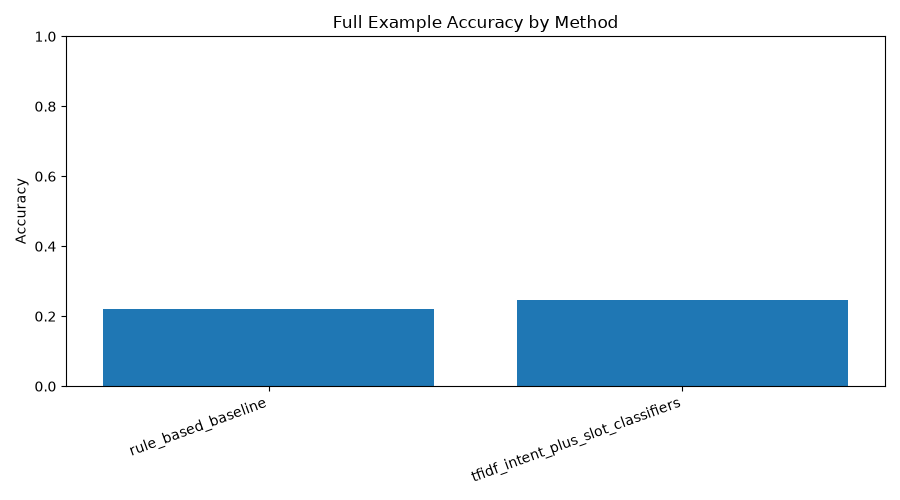
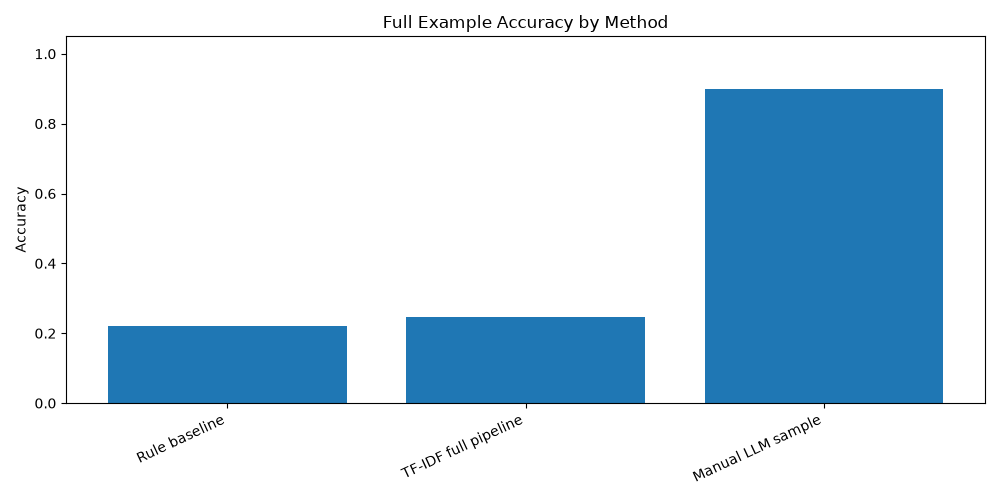
Updated visualizations

diff --git a/src/plot_results.py b/src/plot_results.py
@@ -18,24 +18,60 @@ def load_json(path):
         return json.load(file)
 
 
-def plot_model_comparison(rows):
-    # compare only full-schema methods here
-    full_schema_rows = [
+def clean_method_name(method):
+    names = {
+        "rule_based_baseline": "Rule baseline",
+        "tfidf_logistic_regression": "TF-IDF intent",
+        "fine_tuned_distilbert": "Fine-tuned DistilBERT",
+        "one_classifier_per_slot": "Slot classifiers",
+        "tfidf_intent_plus_slot_classifiers": "TF-IDF full pipeline",
+        "manual_off_the_shelf_llm": "Manual LLM sample",
+    }
+
+    return names.get(method, method)
+
+
+def plot_intent_accuracy(rows):
+    intent_rows = [
         row for row in rows
-        if row["task"] == "full_schema_extraction"
+        if row["intent_accuracy"] != ""
     ]
 
-    methods = [row["method"] for row in full_schema_rows]
-    full_scores = [row["full_example_accuracy"] for row in full_schema_rows]
-    slot_scores = [row["slot_accuracy"] for row in full_schema_rows]
-    missing_scores = [row["missing_fields_accuracy"] for row in full_schema_rows]
+    methods = [clean_method_name(row["method"]) for row in intent_rows]
+    scores = [row["intent_accuracy"] for row in intent_rows]
 
     x = range(len(methods))
 
-    plt.figure(figsize=(9, 5))
-    plt.bar(x, full_scores)
-    plt.xticks(x, methods, rotation=20, ha="right")
-    plt.ylim(0, 1)
+    plt.figure(figsize=(10, 5))
+    plt.bar(x, scores)
+    plt.xticks(x, methods, rotation=25, ha="right")
+    plt.ylim(0, 1.05)
+    plt.ylabel("Accuracy")
+    plt.title("Intent Accuracy by Method")
+    plt.tight_layout()
+
+    output_path = VISUALS_DIR / "intent_accuracy_by_method.png"
+    plt.savefig(output_path)
+    plt.close()
+
+    print(f"Saved {output_path}")
+
+
+def plot_full_schema_accuracy(rows):
+    full_schema_rows = [
+        row for row in rows
+        if row["full_example_accuracy"] != ""
+    ]
+
+    methods = [clean_method_name(row["method"]) for row in full_schema_rows]
+    scores = [row["full_example_accuracy"] for row in full_schema_rows]
+
+    x = range(len(methods))
+
+    plt.figure(figsize=(10, 5))
+    plt.bar(x, scores)
+    plt.xticks(x, methods, rotation=25, ha="right")
+    plt.ylim(0, 1.05)
     plt.ylabel("Accuracy")
     plt.title("Full Example Accuracy by Method")
     plt.tight_layout()
@@ -46,11 +82,21 @@ def plot_model_comparison(rows):
 
     print(f"Saved {output_path}")
 
-    # second graph for slot/missing field comparison
-    plt.figure(figsize=(9, 5))
+
+def plot_slot_missing_accuracy(rows):
+    full_schema_rows = [
+        row for row in rows
+        if row["slot_accuracy"] != "" and row["missing_fields_accuracy"] != ""
+    ]
+
+    methods = [clean_method_name(row["method"]) for row in full_schema_rows]
+    slot_scores = [row["slot_accuracy"] for row in full_schema_rows]
+    missing_scores = [row["missing_fields_accuracy"] for row in full_schema_rows]
 
     width = 0.35
     x_positions = list(range(len(methods)))
+
+    plt.figure(figsize=(10, 5))
 
     plt.bar(
         [x - width / 2 for x in x_positions],
@@ -66,8 +112,8 @@ def plot_model_comparison(rows):
         label="Missing fields accuracy"
     )
 
-    plt.xticks(x_positions, methods, rotation=20, ha="right")
-    plt.ylim(0, 1)
+    plt.xticks(x_positions, methods, rotation=25, ha="right")
+    plt.ylim(0, 1.05)
     plt.ylabel("Accuracy")
     plt.title("Slot and Missing-Field Accuracy")
     plt.legend()
@@ -80,7 +126,7 @@ def plot_model_comparison(rows):
     print(f"Saved {output_path}")
 
 
-def plot_intent_distribution(eda):
+def plot_dataset_intent_distribution(eda):
     intent_distribution = eda["intent_distribution"]
 
     labels = list(intent_distribution.keys())
@@ -106,11 +152,13 @@ def main():
     comparison_rows = load_json(COMPARISON_PATH)
     eda = load_json(EDA_PATH)
 
-    plot_model_comparison(comparison_rows)
-    plot_intent_distribution(eda)
+    plot_intent_accuracy(comparison_rows)
+    plot_full_schema_accuracy(comparison_rows)
+    plot_slot_missing_accuracy(comparison_rows)
+    plot_dataset_intent_distribution(eda)
 
     print()
-    print("Done creating result graphs.")
+    print("Done creating updated result graphs.")
 
 
 if __name__ == "__main__":